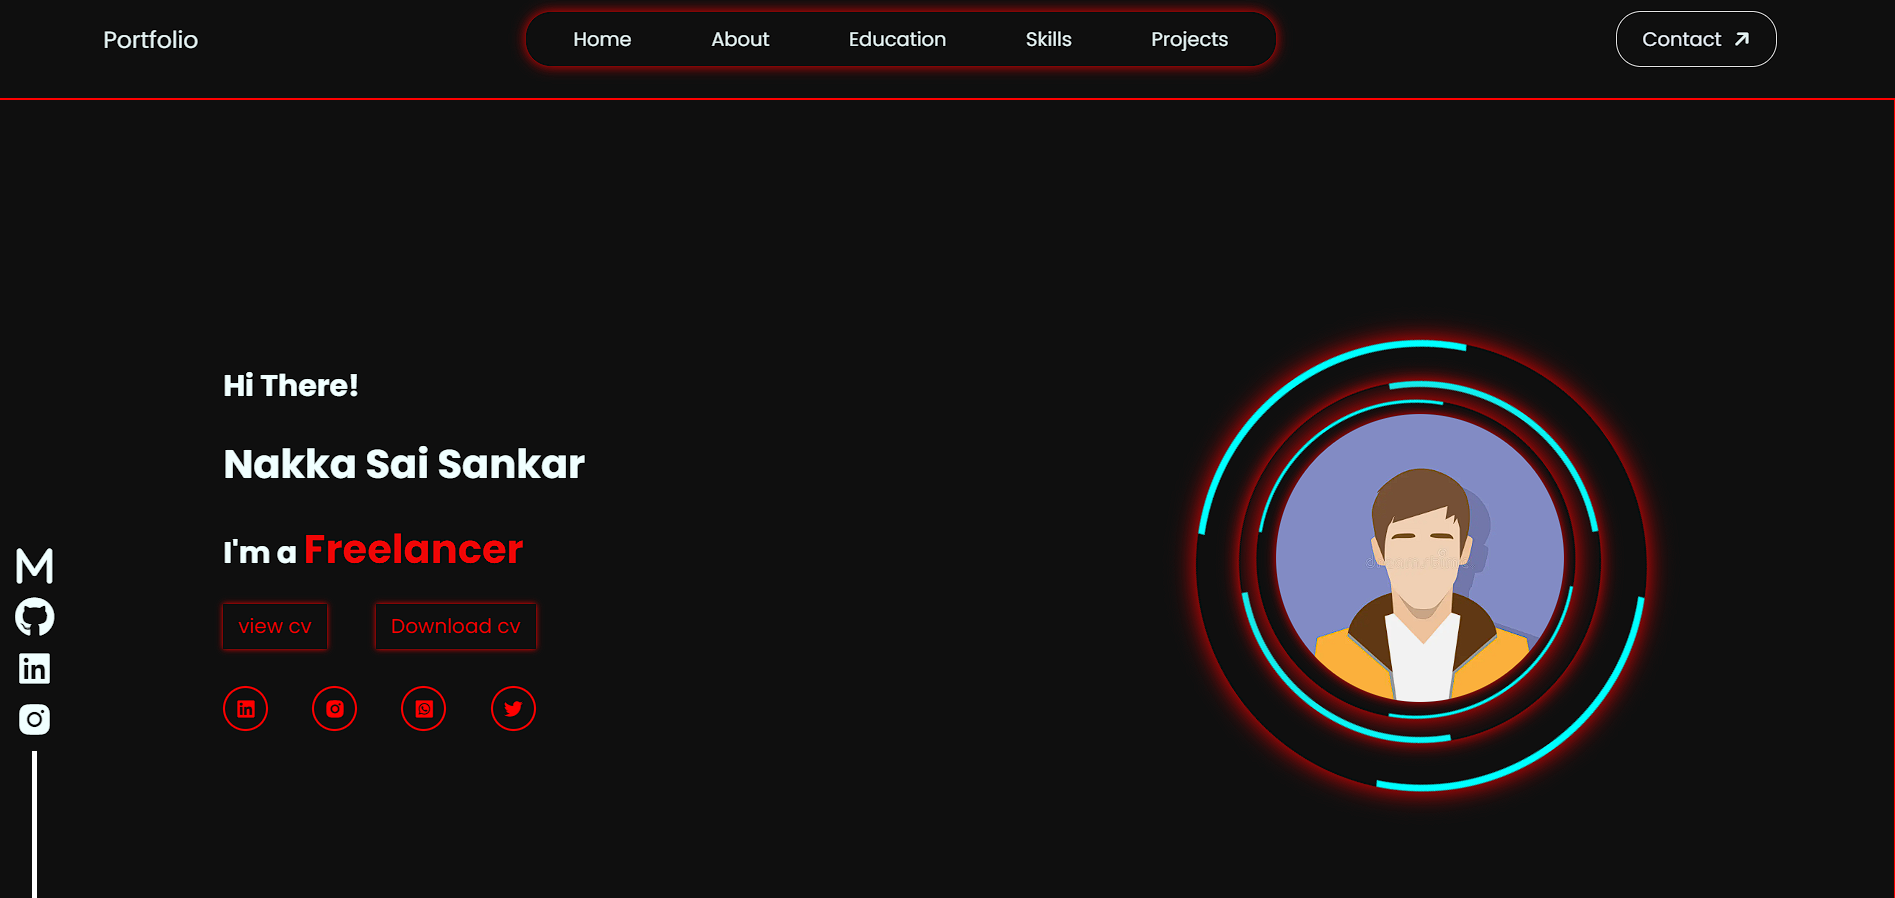
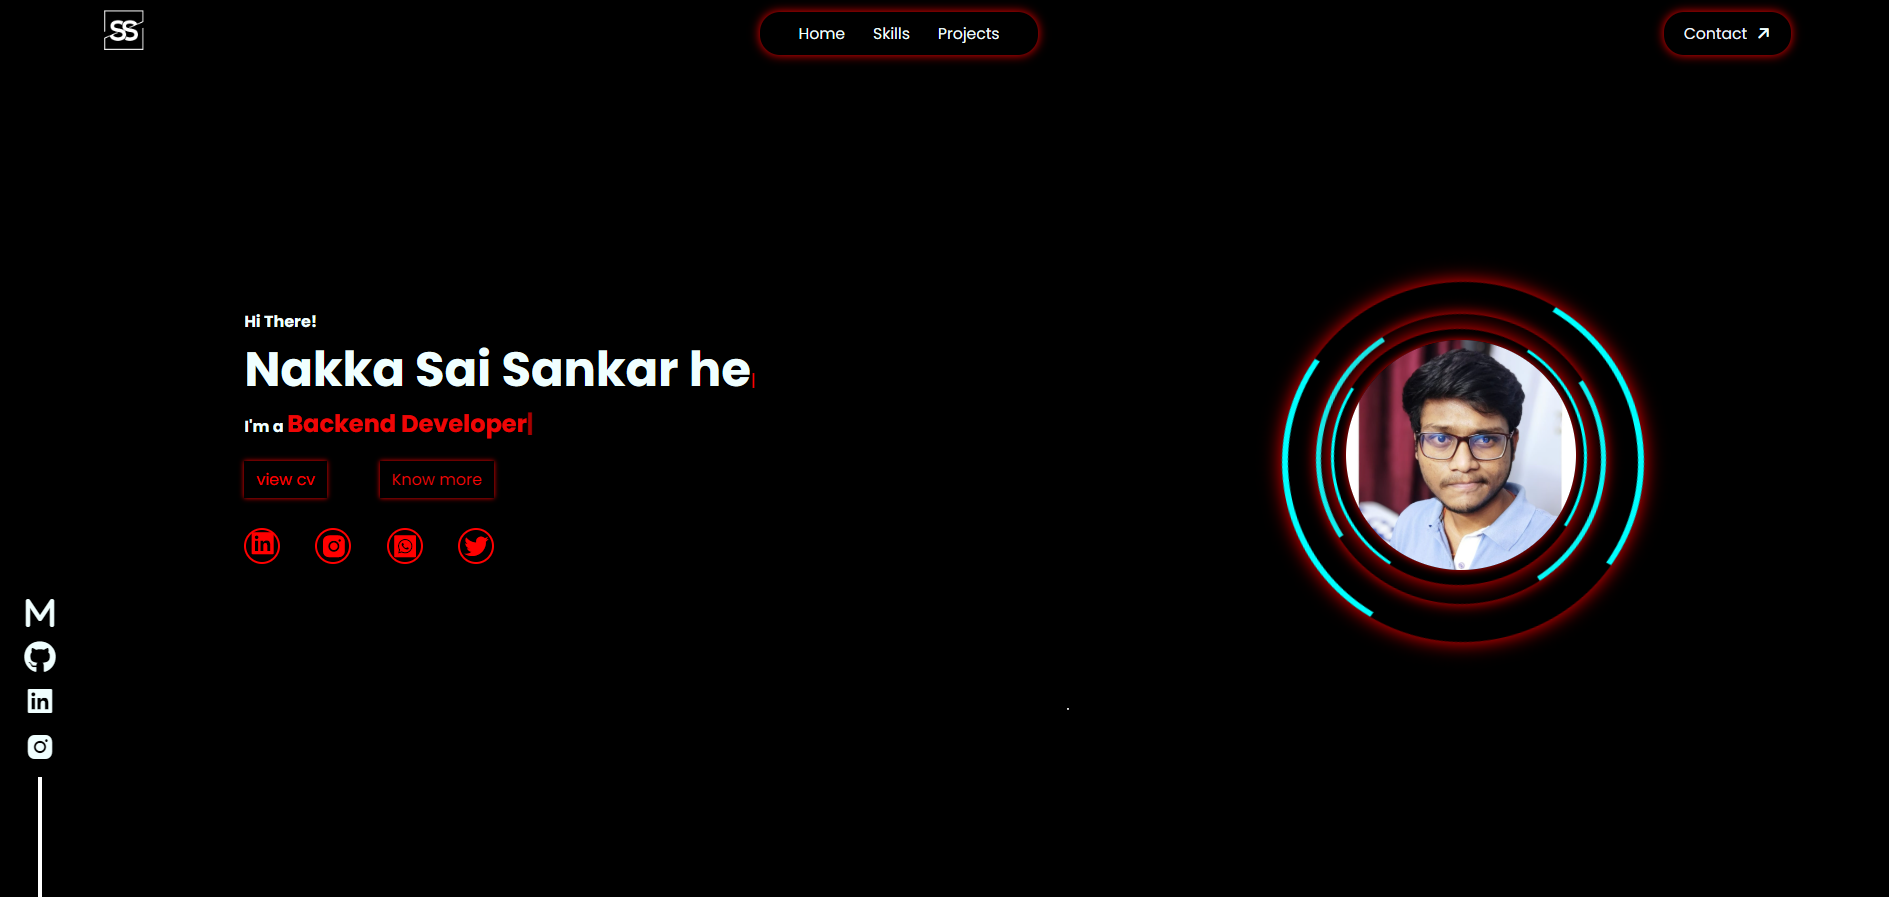
updated

diff --git a/index.html b/index.html
@@ -108,11 +108,7 @@
         robust server-side APIs that scale. My work emphasizes accessibility, responsive design, and clear, testable
         code so products stay maintainable as they grow.
       </p>
-      <p>
-        Recent projects include a full-stack real-estate platform (React + Node + MongoDB), an LMS prototype, and a
-        data-driven marks-tracking app. I enjoy turning product requirements into working features and learning new
-        tools that improve developer productivity and user experience.
-      </p>
+      
       <div class="abt-quote">
         <span>Think.</span><span>Build.</span><span>Improve.</span>
       </div>
@@ -120,7 +116,7 @@
     <div class=" abt-icons right-trans">
       <img src="images/nodejsicon.svg" class="nodeicon" alt="">
       <img class="mongoicon" src="images/mongodb.png" alt="">
-      <img class="reacticon" src="images/react.svg" alt="">
+      <img class="reacticon" src="images/react_logo.png" alt="">
       <img class="jsicon" src="images/javascript-logo.svg" alt="">
       <img class="expicon" src="images/express.png" alt="">
       <img class="giticon" src="images/gitbash.svg" alt="">
@@ -129,6 +125,11 @@
       <img class="taiwicon" src="images/tailwind-css.svg" alt="">
       <img class="nextjs" src="images/nextjs.jpeg" alt="">
       <img class="typescripticon" src="images/typrscriptlogo.png" alt="">
+      <img class="typescripticon" src="images/html_logo.png" alt="">
+      <img class="taiwicon" src="images/python_logo.png" alt="">
+      <img class="expicon" src="images/c++_logo.png" alt="">
+      <img class="mongoicon" src="images/sql_logo.png" alt="">
+
     </div>
 
   </section>
@@ -161,34 +162,50 @@
   </section>
   <section class="projects" id="projects">
     <div class="projects-grid">
-      <article class="project-card">
-        <a href="https://github.com/Sankar-1110/RealHome" target="_blank" rel="noopener noreferrer">
-          <img src="images/Realhome.png" alt="RealHome Project">
-          <div class="project-overlay">
-            <h3>RealHome</h3>
-            <p>Full-stack real estate app — React, Node, Mongo</p>
-          </div>
-        </a>
-      </article>
-      <article class="project-card">
+       <article class="project-card">
         <a href="https://github.com/Sankar-1110/LMS-repo" target="_blank" rel="noopener noreferrer">
           <img src="images/lms_img.png" alt="LMS Project">
           <div class="project-overlay">
             <h3>LMS Project</h3>
-            <p>Full-stack Learning Management System App — React, NodeJs, MongoDB</p>
+            <p>This Learning Management System (LMS) is built using the MERN stack, with MongoDB for data storage, Express and Node.js for backend APIs, and React for the frontend.
+It supports user authentication, course management, and role-based access through RESTful services.</p>
+          </div>
+        </a>
+      </article>
+           <article class="project-card">
+        <a href="https://example.com/project1" target="_blank" rel="noopener noreferrer">
+          <img src="images/Helmet_det.png" alt="Portfolio Project">
+          <div class="project-overlay">
+            <h3>Helmet Violation Detection & Enforcement</h3>
+            <p>Built using YOLOv8 and OpenCV to identify helmet violations and number plates.
+Integrated OCR (EasyOCR) and SQLite to extract vehicle numbers and automate violation lookup.
+Developed a Next.js + TypeScript frontend to visualize detected violations and enforcement status.</p>
           </div>
         </a>
       </article>
 
       <article class="project-card">
-        <a href="https://example.com/project1" target="_blank" rel="noopener noreferrer">
-          <img src="images/portfolio.png" alt="Portfolio Project">
+        <a href="https://github.com/Sankar-1110/RealHome" target="_blank" rel="noopener noreferrer">
+          <img src="images/Realhome.png" alt="RealHome Project">
           <div class="project-overlay">
-            <h3>Portfolio</h3>
-            <p>Personal portfolio site with responsive layout and animations</p>
+            <h3>RealHome</h3>
+            <p>RealHome is a full-stack real estate web application built using the MERN stack, with MongoDB for property data storage, Express and Node.js for backend APIs, and React for the frontend.
+It allows users to browse property listings and directly contact house owners through a simple and responsive interface.</p>
           </div>
         </a>
       </article>
+      <article class="project-card">
+        <a href="https://example.com/project1" target="_blank" rel="noopener noreferrer">
+          <img src="images/Bit_coin.png" alt="Portfolio Project">
+          <div class="project-overlay">
+            <h3>Priceprophet</h3>
+            <p>This project is a web-based cryptocurrency prediction platform developed using React, Node.js, and Express.
+It uses the Exponential Smoothing (Holt-Winters) model with real-time crypto data to provide short-term price forecasts.</p>
+          </div>
+        </a>
+      </article>
+     
+
 
 
       <article class="project-card">
@@ -196,10 +213,21 @@
           <img src="images/gemini.png" alt="Gemini Project">
           <div class="project-overlay">
             <h3>My Gemini</h3>
-            <p>Experimental UI and animations demo</p>
+            <p>This Gemini clone is a web application built using React and Vite that interacts with Google’s Gemini API for AI-powered text generation.
+It allows users to send prompts and receive intelligent, conversational responses in real time.</p>
           </div>
         </a>
       </article>
+      <article class="project-card">
+        <a href="https://example.com/project1" target="_blank" rel="noopener noreferrer">
+          <img src="images/Portfolio.png" alt="Portfolio Project">
+          <div class="project-overlay">
+            <h3>Portfolio</h3>
+            <p>Personal portfolio site with responsive layout and animations</p>
+          </div>
+        </a>
+      </article>
+      
     </div>
   </section>
 

diff --git a/index.css b/index.css
@@ -576,7 +576,7 @@ header {
 }
 .abt-icons img{
     height: 70px;
-    width: 100px;
+    width: 90px;
     margin-block: 20px;
 }
 
@@ -811,7 +811,7 @@ header {
 .projects-grid{
     display: grid;
     /* 2 columns by default (2 x N layout) */
-    grid-template-columns: repeat(2, 1fr);
+    grid-template-columns: repeat(3, 1fr);
     gap: 24px;
     width: 100%;
 }
@@ -837,7 +837,7 @@ header {
     position: absolute;
     inset: auto 0 0 0;
     padding: 18px;
-    background: linear-gradient(180deg, rgba(0,0,0,0) 0%, rgba(0,0,0,0.6) 100%);
+    background: linear-gradient(180deg, black, rgba(0,0,0,0.6) 100%);
     color: #fff;
     transform: translateY(100%);
     transition: transform .35s ease;
